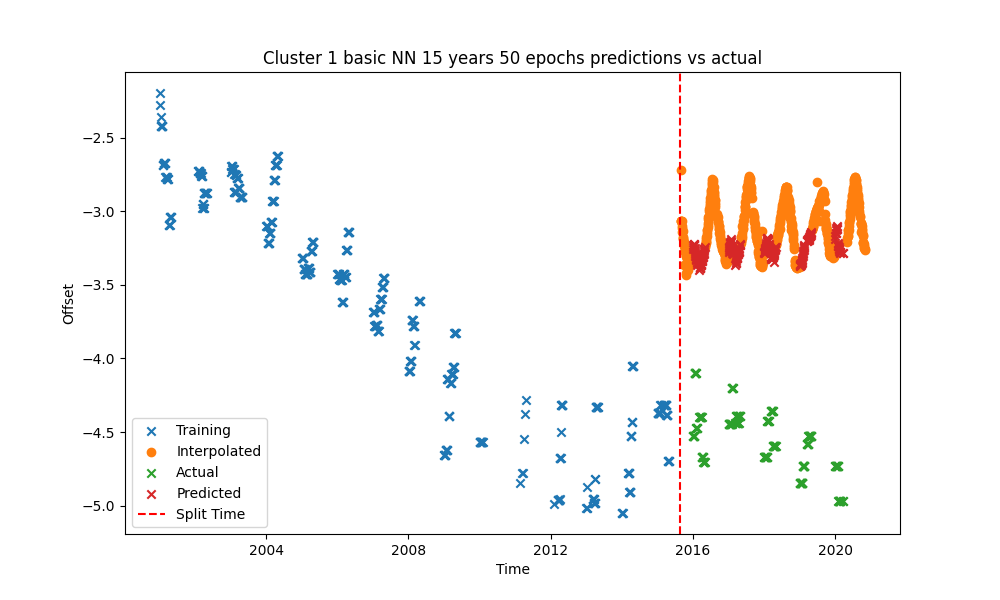
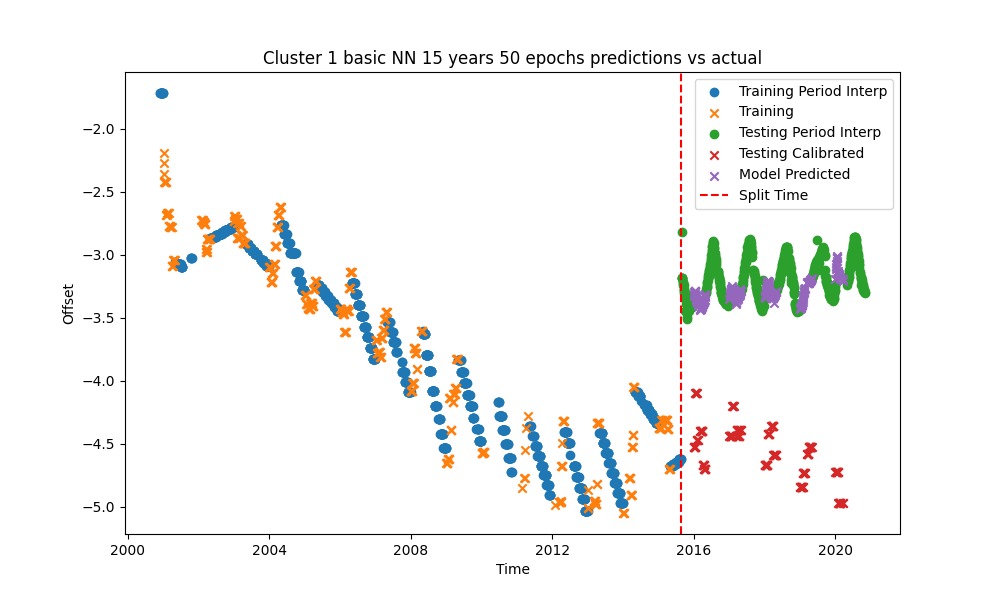
Training period interp plotted

diff --git a/Spin Axis NN Cal/xAxisBasicNNCal.py b/Spin Axis NN Cal/xAxisBasicNNCal.py
@@ -30,12 +30,12 @@ def train_test_model(n_epochs=100, batch_size=10, sc=1, years=15):
     '''
     Runs everything to train and test the model for a spacecraft and axis
     '''
-    x_train, x_test, y_train, y_test, time_train, time_test, sc, axis, training_years, split_time, x_interp, time_interp = x_axis_create_and_split_data(orbits, sc, years)
+    x_train, x_test, y_train, y_test, time_train, time_test, sc, axis, training_years, split_time, x_interp_test, time_interp_test, y_interp_train, time_interp_train = x_axis_create_and_split_data(orbits, sc, years)
     x_train = torch.tensor(x_train, dtype=torch.float32)
     y_train = torch.tensor(y_train, dtype=torch.float32).reshape(-1, 1)
     x_test = torch.tensor(x_test, dtype=torch.float32)
     y_test = torch.tensor(y_test, dtype=torch.float32).reshape(-1, 1)
-    x_interp = torch.tensor(x_interp, dtype=torch.float32) #The interpolated values to predict
+    x_interp_test = torch.tensor(x_interp_test, dtype=torch.float32) #The interpolated values to predict
 
     #%% Define the model
     model = nn.Sequential(
@@ -101,13 +101,14 @@ def train_test_model(n_epochs=100, batch_size=10, sc=1, years=15):
     model.eval()
     with torch.no_grad():
         y_pred = model(x_test)
-        y_interp = model(x_interp)
+        y_interp = model(x_interp_test)
 
     plt.figure(figsize=(10, 6))
+    plt.scatter(time_interp_train, y_interp_train, label='Training Period Interp', marker='o')
     plt.scatter(time_train, y_train, label='Training', marker='x')
-    plt.scatter(time_interp, y_interp, label='Interpolated', marker='o')
-    plt.scatter(time_test, y_test, label='Actual', marker='x')
-    plt.scatter(time_test, y_pred, label='Predicted', marker='x')
+    plt.scatter(time_interp_test, y_interp, label='Testing Period Interp', marker='o')
+    plt.scatter(time_test, y_test, label='Testing Calibrated', marker='x')
+    plt.scatter(time_test, y_pred, label='Model Predicted', marker='x')
     plt.axvline(x=split_time, color='r', linestyle='--', label='Split Time')
     plt.xlabel('Time')
     plt.ylabel('Offset')
@@ -116,14 +117,16 @@ def train_test_model(n_epochs=100, batch_size=10, sc=1, years=15):
     plt.savefig("./Outputs_X_Axis/C{}/NN/Basic NN {} years {} epochs.png".format(sc+1, years, n_epochs))
 
 
-# #%% Loop over all spacecraft
-for spacecraft in range(2,4):
-    train_test_model(n_epochs=50, batch_size=10, sc=spacecraft, years=10)
-    train_test_model(n_epochs=100, batch_size=10, sc=spacecraft, years=10)
-    train_test_model(n_epochs=500, batch_size=10, sc=spacecraft, years=10)
-    train_test_model(n_epochs=50, batch_size=10, sc=spacecraft, years=15)
-    train_test_model(n_epochs=100, batch_size=10, sc=spacecraft, years=15)
-    train_test_model(n_epochs=500, batch_size=10, sc=spacecraft, years=15)
+train_test_model(n_epochs=50, batch_size=10, sc=0, years=15)
+
+# # #%% Loop over all spacecraft
+# for spacecraft in range(0,4):
+#     train_test_model(n_epochs=50, batch_size=10, sc=spacecraft, years=10)
+#     train_test_model(n_epochs=100, batch_size=10, sc=spacecraft, years=10)
+#     train_test_model(n_epochs=500, batch_size=10, sc=spacecraft, years=10)
+#     train_test_model(n_epochs=50, batch_size=10, sc=spacecraft, years=15)
+#     train_test_model(n_epochs=100, batch_size=10, sc=spacecraft, years=15)
+#     train_test_model(n_epochs=500, batch_size=10, sc=spacecraft, years=15)
 
 #%% Commit to git
 # Define the commands to run

diff --git a/Spin Axis NN Cal/datasplit.py b/Spin Axis NN Cal/datasplit.py
@@ -105,8 +105,10 @@ def x_axis_create_and_split_data(orbits, sc, training_years):
     x_test = []
     y_test = []
     time_test = []
-    x_interp = []
-    time_interp = []    
+    x_interp_test = []
+    time_interp_test = []    
+    y_interp_train = []
+    time_interp_train = []
     first_orbit_start_time = datetime.datetime(2000, 8, 24, 8, 56, 52)
     split_time = first_orbit_start_time + datetime.timedelta(seconds = (training_years * 31557600)) #Defines the split time based on the number of training years
 
@@ -148,15 +150,16 @@ def x_axis_create_and_split_data(orbits, sc, training_years):
                     y_train.append(label)
                     time_train.append(orbit_start_time)
                 else:
-                    pass
+                    y_interp_train.append(label)
+                    time_interp_train.append(orbit_start_time)
             else: #The training period marker is false and the data is in the testing period
                 if(data_interp_marker == False):
                     x_test.append(feature_vector)
                     y_test.append(label)
                     time_test.append(orbit_start_time);   
                 else:
-                    x_interp.append(feature_vector)
-                    time_interp.append(orbit_start_time)             
+                    x_interp_test.append(feature_vector)
+                    time_interp_test.append(orbit_start_time)             
         else: #Else, the data is dirty and isn't added to either array
             pass
-    return x_train, x_test, y_train, y_test, time_train, time_test, sc, axis, training_years, split_time, x_interp, time_interp
+    return x_train, x_test, y_train, y_test, time_train, time_test, sc, axis, training_years, split_time, x_interp_test, time_interp_test, y_interp_train, time_interp_train
